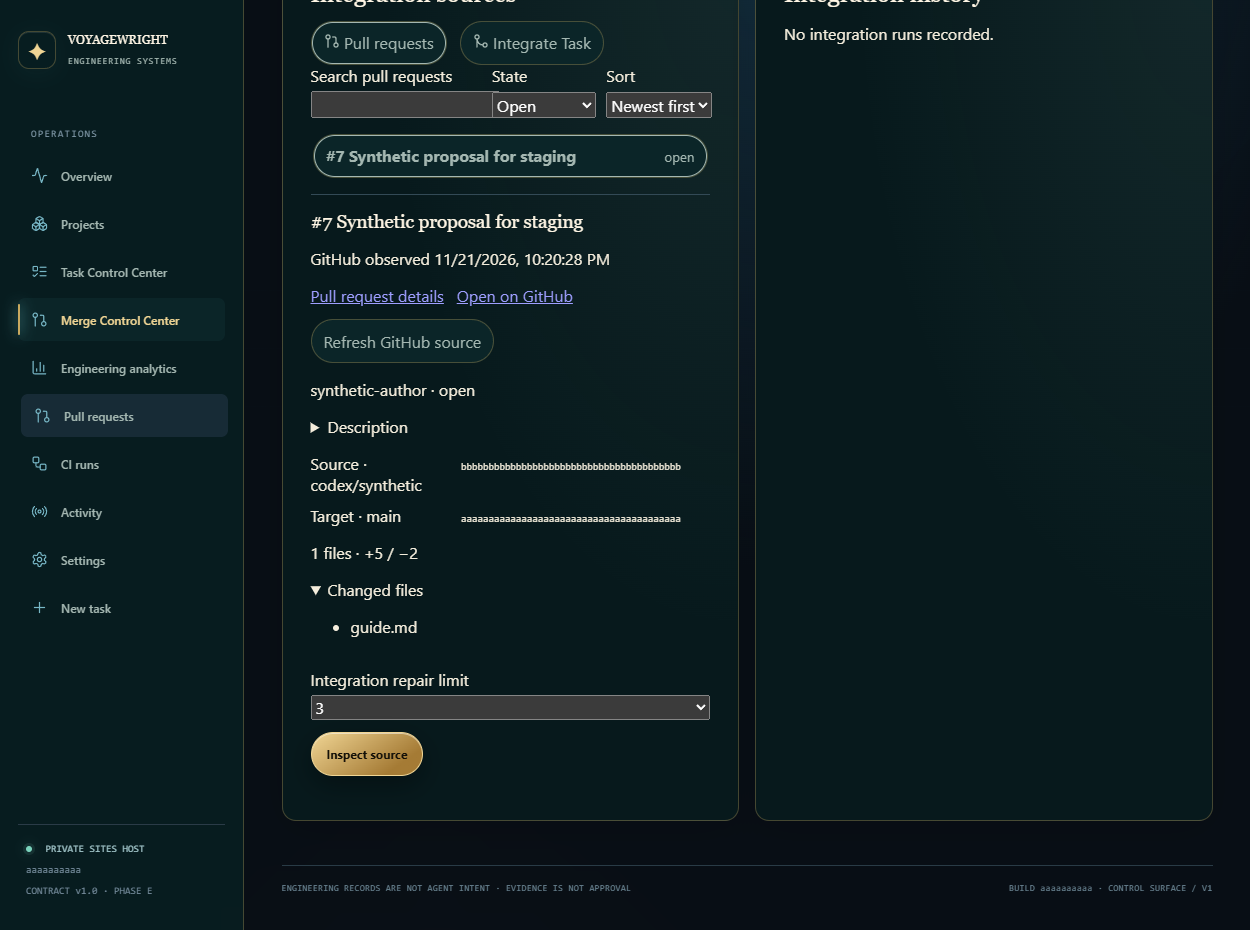
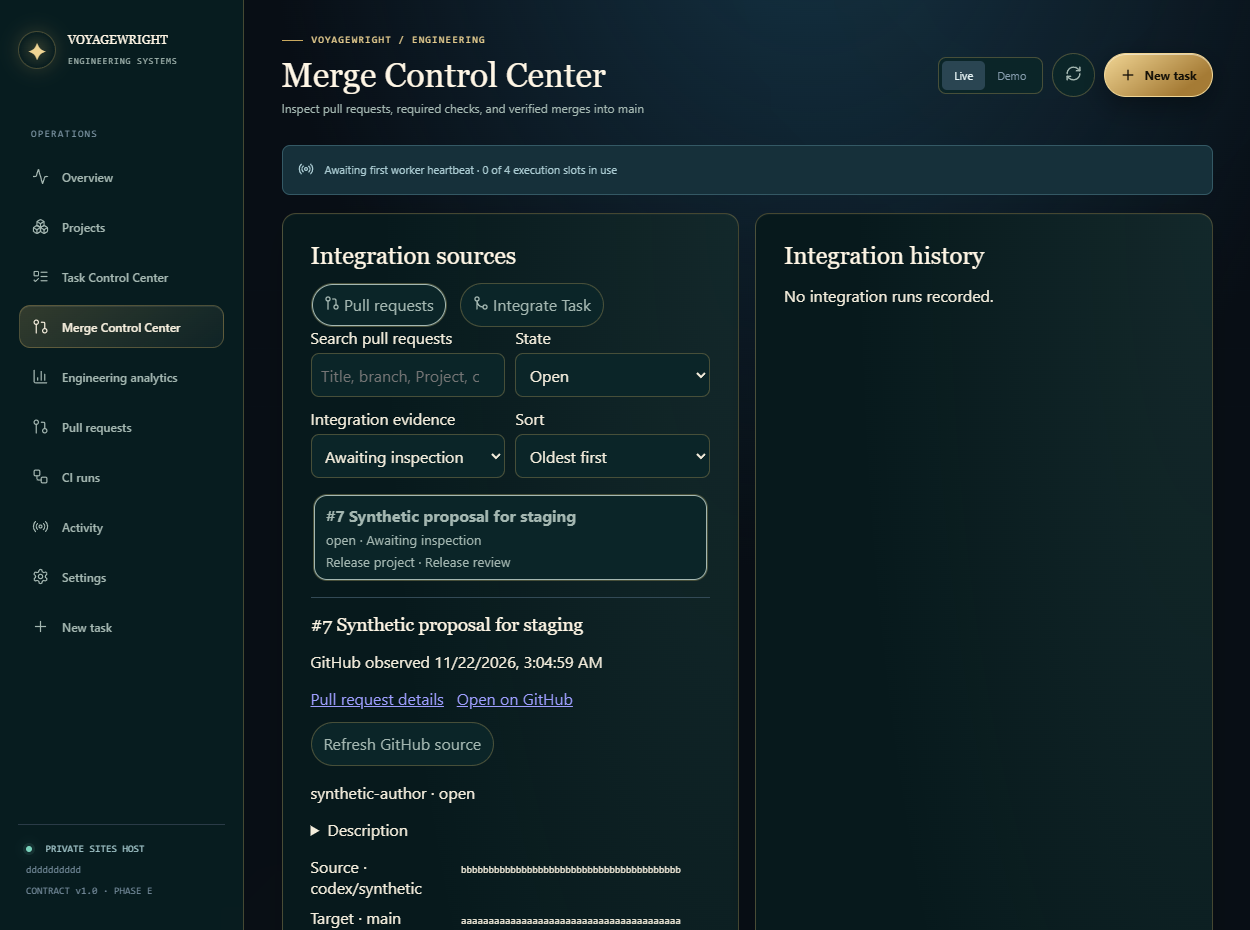
Carry Voyagewright styling into operational controls

diff --git a/agent-system/observatory/src/main.jsx b/agent-system/observatory/src/main.jsx
@@ -453,7 +453,7 @@ const dispatchObservation=!demo&&watchingTasks&&engine.status==='available'&&
   <div className="notice"><Radio size={16}/><span>{dispatchStatus.label}{Number.isInteger(engine.workerDispatch?.total_slots)&&
     <> · {engine.workerDispatch.active_slots} of {engine.workerDispatch.total_slots} execution slots in use</>}{dispatchStatus.at&&
     <> · Last verified worker heartbeat <time dateTime={dispatchStatus.at}>{new Date(dispatchStatus.at).toLocaleString()}</time></>}</span></div>;
-return <div className="app-shell" data-application={voyage?'voyagewright':'aetherwake'} data-density={preference.density} data-sidebar={preference.sidebar}><Ambient voyage={voyage}/><aside className="sidebar"><div className="brand"><span className="brand-logo">{voyage?<span aria-hidden="true">✦</span>:<Layers3 size={21} strokeWidth={1.6}/>}</span><div><b>{applicationName.toUpperCase()}</b><small>ENGINEERING SYSTEMS</small></div></div><div className="rail-caption">OPERATIONS</div><nav>{nav.map(([id,label,Icon])=><motion.button key={id} className={'nav-link '+((activeNavigation===id)?'selected':'')} title={label} onClick={()=>navigate(id)} whileHover={{x:3}} whileTap={{scale:.98}}><Icon size={17} strokeWidth={1.7}/><span className="nav-link-label">{label}</span>{(activeNavigation===id)&&<motion.span className="nav-indicator" layoutId="nav-indicator" transition={{type:'spring',stiffness:350,damping:30}}/>}</motion.button>)}</nav><div className="sidebar-bottom"><div className="connect-label"><span className="live-dot"/> {proposals?'PRIVATE SITES HOST':'LOCAL CONTROL PLANE'}</div><div className="mono">{short(revision)}</div><div>CONTRACT v1.0 · PHASE E</div></div></aside><main className={page==='projects'&&!projectRoute?.[1]?'main project-library-main':'main'}><header className="topbar"><div><div className="overline"><span className="overline-line"/>{voyage?'VOYAGEWRIGHT / ENGINEERING':'AETHERWAKE / ENGINEERING OBSERVATORY'}</div><h1 ref={heading} tabIndex={-1}>{title}</h1><p>{desc}</p></div><div className="header-actions">{demo&&<span className="demo-flag">SIMULATED DATA</span>}{page==='analytics'?<span className="connect-label"><span className="live-dot"/> Live sources</span>:<div className="mode-toggle">{['Live','Demo'].map(m=><button key={m} className={(demo===(m==='Demo'))?'on':''} onClick={()=>{const v=m==='Demo';setDemo(v);refresh(v)}}>{m}</button>)}</div>}<motion.button className="icon-button" aria-label="Refresh records" title="Refresh" whileTap={reduce?undefined:{rotate:160}} onClick={()=>{if(page==='projects')setProjectRefresh(version=>version+1);else refresh()}}><RefreshCw size={17}/></motion.button>{page==='overview'&&<button className="quiet-button" onClick={()=>navigate('tasks')}>Browse Tasks <ArrowRight size={13}/></button>}<motion.button className="primary-button" whileHover={{y:-2}} whileTap={{scale:.97}} onClick={()=>navigate('create')}><Plus size={16}/> New task</motion.button></div></header>{!demo&&proposals?.verification&&<div className="notice"><ShieldCheck size={16}/>Isolated verification proposals</div>}{error&&<div className="notice error" role="status"><CircleAlert size={17}/>{error}</div>}{loading&&<div className="notice"><Radio size={16}/>Synchronizing engineering record feed…</div>}{watchingTasks&&engine.status==='error'&&engine.tasks.length>0&&<div className="notice" role="status"><Radio size={16}/>Task registry refresh failed. Showing the last known execution state.</div>}<motion.div key={page+(taskRoute?.id?'-'+taskRoute.id:'')+(projectRoute?.[1]?'-'+projectRoute[1]:'')+(githubView?.id?'-'+githubView.kind+'-'+githubView.id:'')+(mergeRoute?.[1]?'-'+mergeRoute[1]:'')+(demo?'-demo':'-live')} initial={reduce?false:{opacity:0,y:14}} animate={{opacity:1,y:0}} transition={{duration:reduce?.01:.3,ease}} className="view">
+return <div className="app-shell" data-application={voyage?'voyagewright':'aetherwake'} data-density={preference.density} data-sidebar={preference.sidebar}><Ambient voyage={voyage}/><aside className="sidebar"><div className="brand"><span className="brand-logo">{voyage?<span aria-hidden="true">✦</span>:<Layers3 size={21} strokeWidth={1.6}/>}</span><div><b>{applicationName.toUpperCase()}</b><small>ENGINEERING SYSTEMS</small></div></div><div className="rail-caption">OPERATIONS</div><nav>{nav.map(([id,label,Icon])=><motion.button key={id} className={'nav-link '+((activeNavigation===id)?'selected':'')} title={label} aria-current={activeNavigation===id?'page':undefined} onClick={()=>navigate(id)} whileHover={reduce?undefined:{x:3}} whileTap={reduce?undefined:{scale:.98}}><Icon size={17} strokeWidth={1.7}/><span className="nav-link-label">{label}</span>{(activeNavigation===id)&&<motion.span className="nav-indicator" layoutId={reduce?undefined:'nav-indicator'} transition={{type:'spring',stiffness:350,damping:30}}/>}</motion.button>)}</nav><div className="sidebar-bottom"><div className="connect-label"><span className="live-dot"/> {proposals?'PRIVATE SITES HOST':'LOCAL CONTROL PLANE'}</div><div className="mono">{short(revision)}</div><div>CONTRACT v1.0 · PHASE E</div></div></aside><main className={page==='projects'&&!projectRoute?.[1]?'main project-library-main':'main'}><header className="topbar"><div><div className="overline"><span className="overline-line"/>{voyage?'VOYAGEWRIGHT / ENGINEERING':'AETHERWAKE / ENGINEERING OBSERVATORY'}</div><h1 ref={heading} tabIndex={-1}>{title}</h1><p>{desc}</p></div><div className="header-actions">{demo&&<span className="demo-flag">SIMULATED DATA</span>}{page==='analytics'?<span className="connect-label"><span className="live-dot"/> Live sources</span>:<div className="mode-toggle">{['Live','Demo'].map(m=><button key={m} className={(demo===(m==='Demo'))?'on':''} onClick={()=>{const v=m==='Demo';setDemo(v);refresh(v)}}>{m}</button>)}</div>}<motion.button className="icon-button" aria-label="Refresh records" title="Refresh" whileTap={reduce?undefined:{rotate:160}} onClick={()=>{if(page==='projects')setProjectRefresh(version=>version+1);else refresh()}}><RefreshCw size={17}/></motion.button>{page==='overview'&&<button className="quiet-button" onClick={()=>navigate('tasks')}>Browse Tasks <ArrowRight size={13}/></button>}<motion.button className="primary-button" whileHover={{y:-2}} whileTap={{scale:.97}} onClick={()=>navigate('create')}><Plus size={16}/> New task</motion.button></div></header>{!demo&&proposals?.verification&&<div className="notice"><ShieldCheck size={16}/>Isolated verification proposals</div>}{error&&<div className="notice error" role="status"><CircleAlert size={17}/>{error}</div>}{loading&&<div className="notice"><Radio size={16}/>Synchronizing engineering record feed…</div>}{watchingTasks&&engine.status==='error'&&engine.tasks.length>0&&<div className="notice" role="status"><Radio size={16}/>Task registry refresh failed. Showing the last known execution state.</div>}<motion.div key={page+(taskRoute?.id?'-'+taskRoute.id:'')+(projectRoute?.[1]?'-'+projectRoute[1]:'')+(githubView?.id?'-'+githubView.kind+'-'+githubView.id:'')+(mergeRoute?.[1]?'-'+mergeRoute[1]:'')+(demo?'-demo':'-live')} initial={reduce?false:{opacity:0,y:14}} animate={{opacity:1,y:0}} transition={{duration:reduce?.01:.3,ease}} className="view">
 {dispatchObservation}
 {page==='overview'&&<><div className="metrics"><Metric name="Registered tasks" value={tasks.length} meta={usingEngineRegistry?'Engine registry · partial view':'Canonical v1 records'} Icon={Boxes} index={0}/><Metric name="Accepted" href={taskHref(undefined,'accepted')} onClick={resetMetricFilters} value={work.accepted} meta="Explicit task outcomes" Icon={CheckCircle2} index={1}/><Metric name="Executing" href={taskHref(undefined,'active')} onClick={resetMetricFilters} value={engine.status==='available'?work.active:'Unavailable'} meta={work.reportedRunning?work.reportedRunning+' last reported running':workerAccess==='not_configured'&&!work.active?'Codex worker access unavailable':'Engine-confirmed activity'} Icon={Activity} index={2}/><Metric name="At risk" href={taskHref(undefined,'issues')} onClick={resetMetricFilters} value={work.issues} meta="Blocked + failed" Icon={CircleAlert} index={3}/><Metric name="Reported success" href={taskHref(undefined,'succeeded')} onClick={resetMetricFilters} value={work.succeeded} meta="Tasks with a reported successful attempt" Icon={Clock3} index={4}/></div><div className="wide-grid"><Rise delay={.12}><Panel title="Engineering throughput" kicker="01 / ACTIVITY SIGNAL" right={<span className="panel-meta">TASK ARRIVAL · 14D</span>}><Timeline values={chart}/><div className="chart-footer">TASKS CREATED <span>Only observed records shown</span></div></Panel></Rise><StickySectionAside><Rise delay={.19}><Panel title="Delivery integrity" kicker="02 / ACCEPTANCE" right={<ShieldCheck size={18} className="muted-icon"/>}><div className="accept-head"><strong>{tasks.length?Math.round(100*work.accepted/tasks.length)+'%':'—'}</strong><small>ACCEPTED TASKS</small></div><div className="track"><motion.span initial={{width:0}} animate={{width:(tasks.length?100*work.accepted/tasks.length:0)+'%'}} transition={{duration:.9,ease}}/></div><DetailLine name="Execution attempts" value={attempts.length}/><DetailLine name="Awaiting owner review" value={<a className="text-button" aria-label={work.review+' Tasks awaiting owner review'} href={taskHref(undefined,'review')} onClick={resetMetricFilters}>{work.review}</a>}/><DetailLine name="Queued, scheduled, or paused" value={<a className="text-button" aria-label={work.waiting+' queued, scheduled, or paused Tasks'} href={taskHref(undefined,'waiting')} onClick={resetMetricFilters}>{work.waiting}</a>}/><DetailLine name="Tasks with no linked execution" value={work.unlinked}/><DetailLine name="Observed trace time" value={observedTime}/>
 {traceCoverage?.spans>0&&<DetailLine name="Trace timing coverage"

diff --git a/agent-system/observatory/src/voyagewright-engineering.css b/agent-system/observatory/src/voyagewright-engineering.css
@@ -1,4 +1,4 @@
-/* Voyagewright dark tokens and shell roles from treasurehuntSoT f5d65de, src/styles/tokens.css and shell.css. */
+/* Voyagewright dark tokens and shell roles from treasurehuntSoT aaf7aa6, src/styles/tokens.css and shell.css. */
 .app-shell[data-application="voyagewright"] {
   --voyage-bg: #030b0e;
   --voyage-ocean: #061419;
@@ -14,6 +14,10 @@
   --voyage-border: rgb(201 169 95 / 32%);
   --accent: var(--voyage-brass);
   --muted: var(--voyage-muted);
+  --ink: var(--voyage-ink);
+  --panel: var(--voyage-surface);
+  --panel2: var(--voyage-raised);
+  --border: var(--voyage-border);
   --bg: var(--voyage-bg);
   --project-blue: #8dcbd8;
   --project-violet: #b895c7;
@@ -31,7 +35,13 @@
   font-weight: 500;
   letter-spacing: normal;
 }
-[data-application="voyagewright"] .brand-logo { color: var(--voyage-gold); background: var(--voyage-overlay); border-color: var(--voyage-border); }
+[data-application="voyagewright"] .brand-logo {
+  color: var(--voyage-gold);
+  border-radius: 50%;
+  border-color: var(--voyage-border);
+  background: radial-gradient(circle, rgb(201 169 95 / 22%), transparent 72%);
+  box-shadow: 0 0 1.2rem rgb(201 169 95 / 22%);
+}
 [data-application="voyagewright"] .brand-logo span { font-size: 1.5rem; }
 [data-application="voyagewright"] .sidebar { background: rgb(7 29 32 / 94%); border-color: var(--voyage-border); }
 [data-application="voyagewright"] :is(.panel,.metric,.project-card-link) {
@@ -43,9 +53,28 @@
 [data-application="voyagewright"] :is(.nav-link,.quiet-button,.icon-button,.brand small,.topbar p,.panel-meta,.objective,.metric-top,.metric small) {
   color: var(--voyage-muted);
 }
-[data-application="voyagewright"] :is(.overline,.kicker,.text-button,.back,.settings-card svg,.nav-link.selected) { color: var(--voyage-gold); }
-[data-application="voyagewright"] :is(.overline-line,.nav-indicator) { background: var(--voyage-brass); }
-[data-application="voyagewright"] :is(.quiet-button,.icon-button,.nav-link.selected,.search,.select,.mode-toggle,.form input,.form textarea,.form select) {
+[data-application="voyagewright"] :is(.overline,.kicker,.text-button,.back,.settings-card svg) { color: var(--voyage-gold); }
+[data-application="voyagewright"] .overline-line { background: var(--voyage-brass); }
+[data-application="voyagewright"] .nav-link {
+  isolation: isolate;
+  min-height: 44px;
+  border: 1px solid transparent;
+  border-radius: .7rem;
+}
+[data-application="voyagewright"] .nav-link svg { color: inherit; }
+[data-application="voyagewright"] .nav-link:is(:hover,:focus-visible,.selected) { color: var(--voyage-ink); }
+[data-application="voyagewright"] .nav-link:hover { background: rgb(157 216 208 / 8%); }
+[data-application="voyagewright"] .nav-link.selected { background: transparent; }
+[data-application="voyagewright"] .nav-indicator {
+  inset: 0;
+  z-index: -1;
+  width: auto;
+  border: 1px solid var(--voyage-border);
+  border-radius: inherit;
+  background: linear-gradient(145deg, rgb(201 169 95 / 22%), rgb(255 255 255 / 3%));
+  box-shadow: inset 0 1px rgb(255 255 255 / 8%);
+}
+[data-application="voyagewright"] :is(.quiet-button,.icon-button,.search,.select,.mode-toggle,.form input,.form textarea,.form select) {
   background: var(--voyage-raised);
   border-color: var(--voyage-border);
 }
@@ -65,6 +94,27 @@
 }
 [data-application="voyagewright"] :is(.quiet-button,.icon-button):hover { border-color: var(--voyage-brass); background: #183e3f; }
 [data-application="voyagewright"] :focus-visible { outline: 2px solid var(--voyage-moon); outline-offset: 3px; }
+[data-application="voyagewright"] .merge-source-list .quiet-button { border-radius: 14px; }
+[data-application="voyagewright"] .merge-discovery-filters :is(input,select) {
+  min-height: 44px;
+  min-width: 0;
+  width: 100%;
+  padding-inline: .6rem;
+  color: var(--voyage-ink);
+  background: var(--voyage-raised);
+  border: 1px solid var(--voyage-border);
+  border-radius: 8px;
+}
+[data-application="voyagewright"] .task-command-hero {
+  background: radial-gradient(ellipse at 100% 0%, rgb(157 216 208 / 12%), transparent 56%), var(--voyage-overlay);
+}
+[data-application="voyagewright"] .task-command-signal { background: var(--voyage-surface); }
+[data-application="voyagewright"] :is(.task-command-button.featured,.task-work-filter[aria-current="page"]) {
+  color: var(--voyage-heading);
+  background: color-mix(in srgb, var(--voyage-brass) 13%, var(--voyage-raised));
+  border-color: var(--voyage-brass);
+}
+[data-application="voyagewright"] .task-work-filter span { color: var(--voyage-muted); }
 [data-application="voyagewright"] .haze-a { background: radial-gradient(ellipse, rgb(57 122 121 / 20%), transparent 70%); }
 [data-application="voyagewright"] .haze-b { background: radial-gradient(ellipse, rgb(201 169 95 / 17%), transparent 70%); }
 [data-application="voyagewright"] .scan-grid { opacity: .15; }

diff --git a/agent-system/observatory/src/styles.css b/agent-system/observatory/src/styles.css
@@ -552,15 +552,15 @@ a.github-activity-row:focus-visible{outline:2px solid var(--accent);outline-offs
 .merge-discovery { display: grid; gap: .85rem; }
 .merge-discovery-filters { display: grid; gap: .65rem; grid-template-columns: repeat(2, minmax(0, 1fr)); }
 .merge-source-list { list-style: none; display: grid; gap: .35rem; padding: .15rem; margin: 0; max-height: 19rem; overflow: auto; }
-.merge-source-list button { display: flex; align-items: baseline; gap: .6rem; justify-content: space-between; width: 100%; text-align: left; }
-.merge-source-list button strong { overflow-wrap: anywhere; }
-.merge-source-list button small { flex-shrink: 0; }
+.merge-source-list button {
+  display: grid; grid-template-columns: minmax(0, 1fr); gap: .3rem; width: 100%;
+  justify-items: start; text-align: left; overflow-wrap: anywhere;
+}
 .merge-source-detail { border-top: 1px solid var(--line, #334a56); padding-top: 1rem; min-width: 0; }
 .merge-source-detail dd { overflow-wrap: anywhere; }
 @media (max-width: 520px) {
   .merge-discovery-filters { grid-template-columns: repeat(2, minmax(0, 1fr)); }
   .merge-discovery-filters label:first-child { grid-column: 1 / -1; }
-  .merge-source-list button { flex-wrap: wrap; }
 }
 
 .project-card-grid[data-layout="list"] { grid-template-columns: 1fr; }

diff --git a/PHASE2-REVIEW.md b/PHASE2-REVIEW.md
@@ -24,7 +24,7 @@ The [README screenshots](README.md) use synthetic records from the browser fixtu
 | Project library and customization | Browser fixtures create a Project, pick its icon and accent, edit its name and description, and reload. Pointer, touch across rows, keyboard movement and cancellation, and persisted ordering pass. Hosted browser verified keyboard persistence and peer Project rejection. Pending, accepted, and declined owner decisions survive a fixture reload and appear on the card. Both visible hosted Projects showed their recorded pending decisions. | Owner walkthrough of visual quality and interaction on their viewport. |
 | Project workspace | Hosted readbacks covered dependencies, inline Task controls, artifacts, exact Task evidence navigation, acceptance, and milestone history. The Project evidence walkthrough showed one recorded attempt in Aetherwake and four in Voyagewright. Neither selected Project had a measured token receipt. Fixtures cover Task and milestone linking, eligible moves retaining identity, and a downloaded Task PDF. Both Sites showed the last observed main commit and opened the linked PR from Project verification. The sampled hosted Projects had no tracked integration runs. An API-backed browser fixture verified the recorded head and base, the failed check and canonical run link, and exclusion of checks from a different head. | Owner review of the end-to-end workspace and its evidence presentation. |
 | Merge | Hosted source context resolved linked Task and Project records. On the deployed candidate, Aetherwake #356 and Voyagewright #899 displayed last observed PR context and GitHub links when the exact detail request reported missing credentials. Protected inspection stayed disabled. The exact inspector read live GitHub through signed-in GitHub CLI GET transport. Aetherwake #356 passed two required checks and remained a draft. Voyagewright #901 had base drift and a failed check on the selected SHA. A stale head returned no check evidence. The existing engine verified landed revisions for Aetherwake #355 and Voyagewright #902. Signed-in discovery found the walkthrough PRs by linked Project and Task. API-backed fixtures verified submitted reviews at their reviewed commits, prerequisite and milestone links, conflict refresh, exact approval fencing, recorded run spans, and linked Project navigation. The active staging histories were empty when inspected. [Failed Voyagewright job](https://github.com/Kgray44/treasurehuntSoT/actions/runs/44982000641/job/137085220306) | The hosted Sites need the two repository-scoped read bindings to qualify live PR detail, checks, and job links end to end. Protected live merge and repair acceptance remains subject to authorization. |
-| Voyagewright and Aetherwake design | The 11 core Voyagewright colors match the current product token source. Authenticated browsers verified application isolation. Browser fixtures exercise both themes and mobile controls, including reduced motion and touch reorder. [Voyagewright product tokens](https://github.com/Kgray44/treasurehuntSoT/blob/main/src/styles/tokens.css) | Owner visual acceptance of both applications. |
+| Voyagewright and Aetherwake design | The 11 core Voyagewright colors match the current product token source. Nested Task surfaces use its raised surface and border roles, and the active navigation treatment uses the existing product shell gradient and foreground. Authenticated browsers verified application isolation. Browser fixtures exercise both themes and mobile controls, including reduced motion and touch reorder. [Voyagewright product tokens](https://github.com/Kgray44/treasurehuntSoT/blob/aaf7aa6e80d0c71c02018432c1e8a66ef5e1e21f/src/styles/tokens.css) [Product shell styles](https://github.com/Kgray44/treasurehuntSoT/blob/aaf7aa6e80d0c71c02018432c1e8a66ef5e1e21f/src/styles/shell.css) | Owner visual acceptance of both applications. |
 | Settings, activity, and health | Hosted settings save, reload, and reset passed in an isolated namespace. API and browser fixtures cover validation, category confirmation, audit, default behavior, sensitive-field exclusion, and peer scope. The Voyagewright browser fixture also verified saved Task grouping and Merge evidence and sort after reload, with direct links still opening their intended views. Both hosted data checks found all 13 expected schema objects and zero issues across seven scoped checks, including audit receipts and milestone gates. Activity uses recorded Task, Project, CI, worker, and integration observations. Browser fixtures verified that a blocked integration explains its recorded cause and that landed activity links to the exact run after a landed commit is recorded. | Hosted database and file backup or restore remains unverified. Hosted GitHub health remains limited by the read bindings. |
 | Installed staging connector | On November 22, Codex used the installed private staging connector to discover both repository bindings, list Projects and Tasks, and read one Project and one blocked Task in each application. Aetherwake listed three Tasks and Voyagewright listed four. Swapping application scopes produced four 404 responses across the same Project and Task reads. The Aetherwake browser discovered the served MCP tools and the Voyagewright browser linked to that shared check. [Connector verification steps](docs/deployment.md#verify-the-installed-staging-connector) | The browser only observes the tool registry. It cannot verify another client's installation or account authorization. This read-only replay exercised the Codex connector transport. |
 | Recovery | Current-schema SQLite drills restored both independent fixture partitions and proved Project order, milestone links, Task and attempt identities, and preference rollback. Restored copies rejected the peer application. | A consistent hosted export, authorized isolated restore, and record/file readback are still needed. A Sites version rollback restores code only. |
